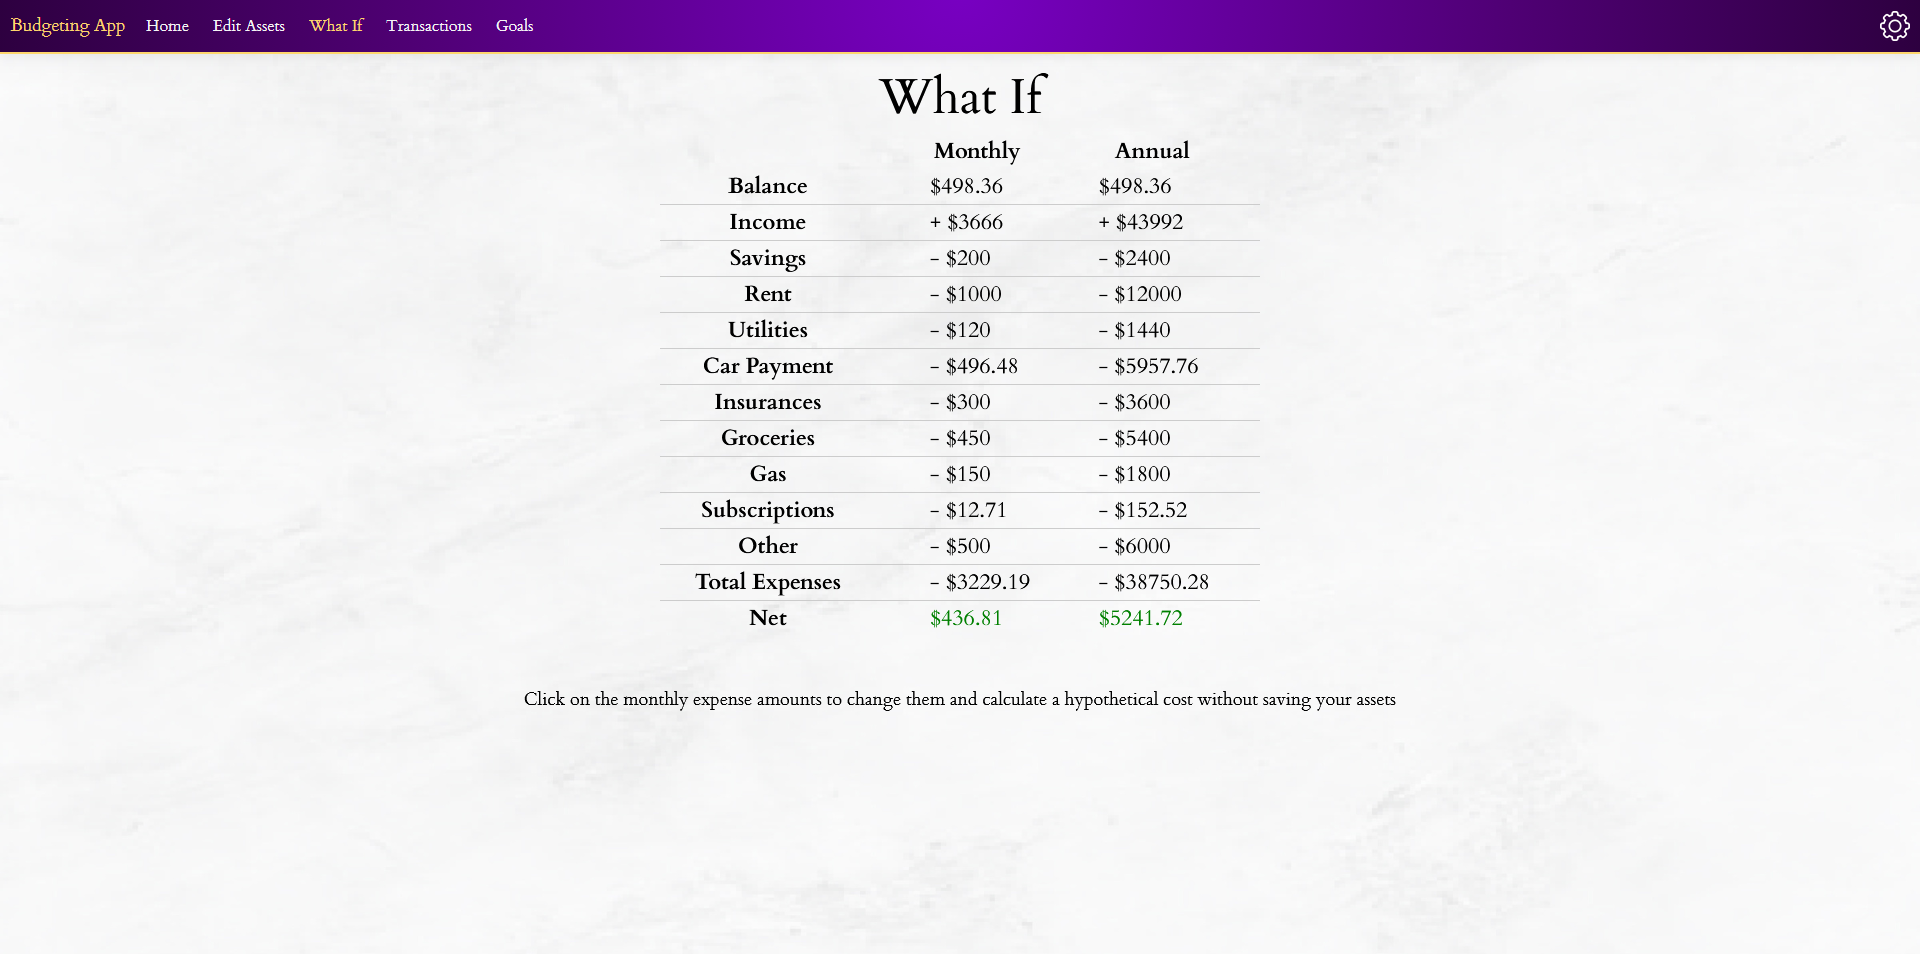
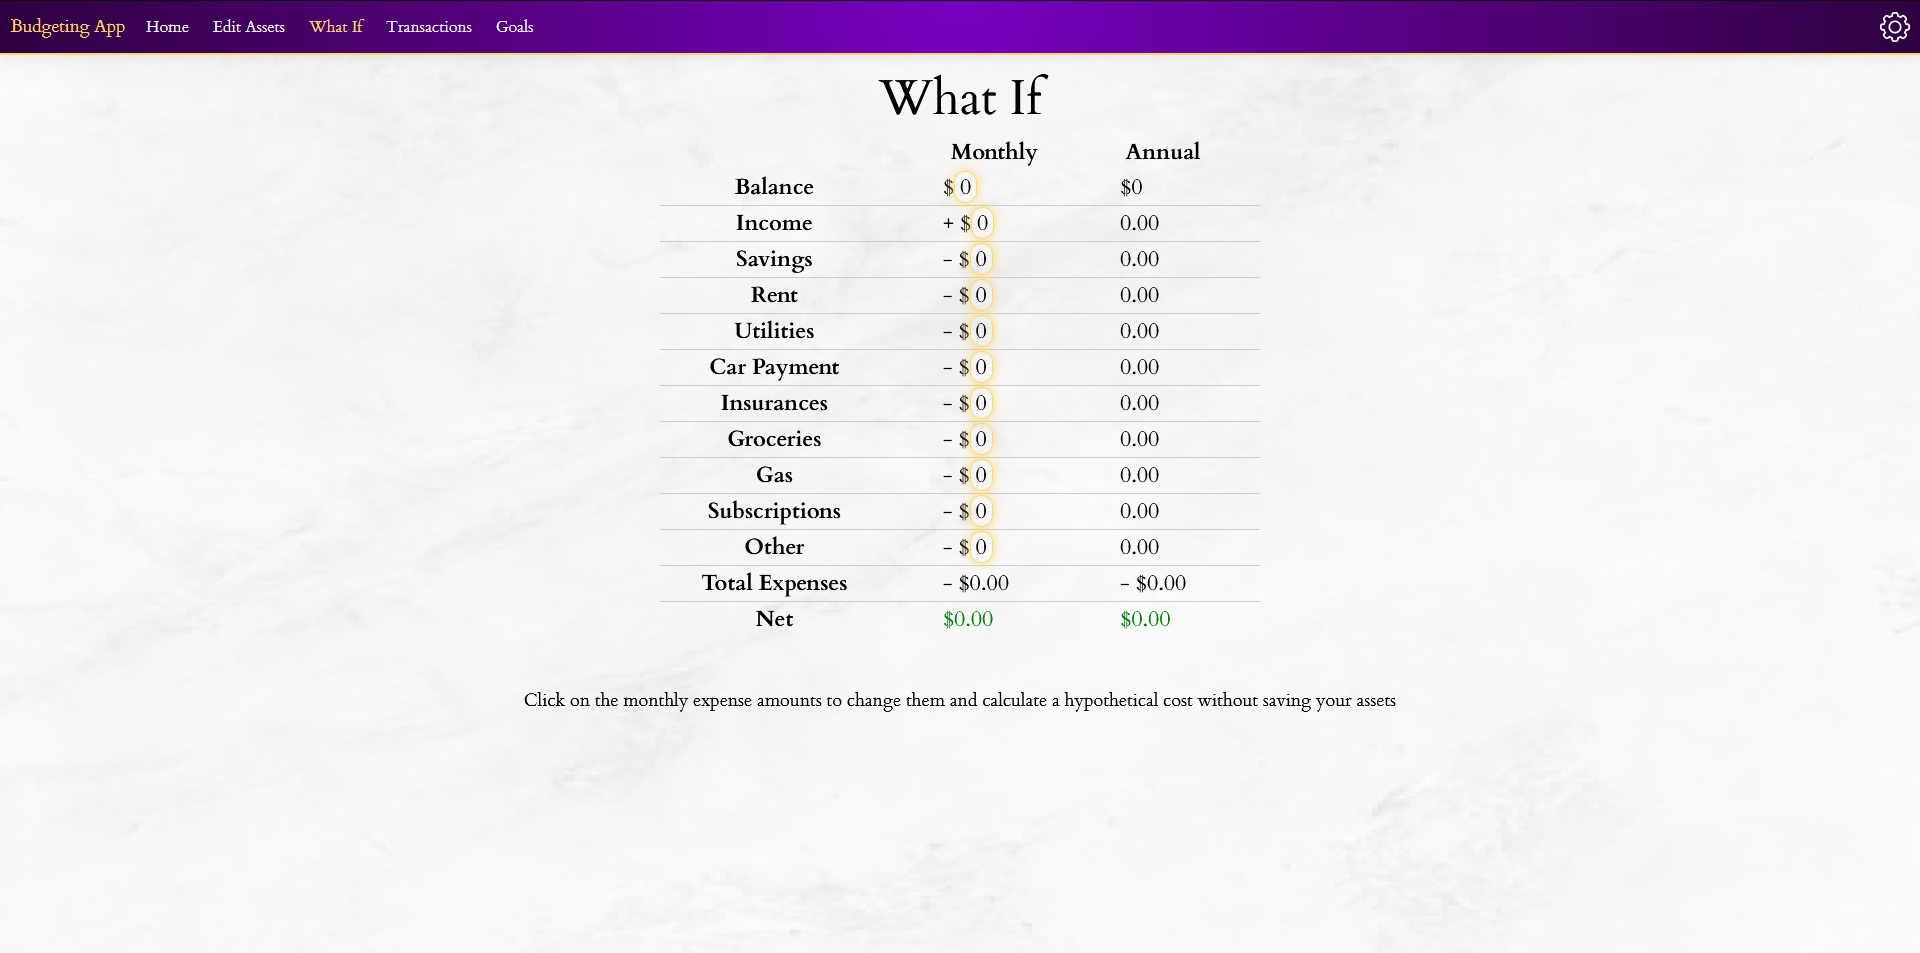
Add golden glow to editable fields in WhatIf.cshtml; Update What If screenshot

diff --git a/BudgetingApp/wwwroot/css/site.css b/BudgetingApp/wwwroot/css/site.css
@@ -539,3 +539,11 @@ input:checked + .slider {
     border-top: 1px solid #ccc;
     width: 100%;
 }
+
+.highlight-content {
+    border: rgb(254, 214, 109) 1px solid;
+    border-radius: 40px;
+    padding-right: 5px;
+    padding-left: 5px;
+    box-shadow: 0 0 10px rgb(254, 214, 109);
+}
